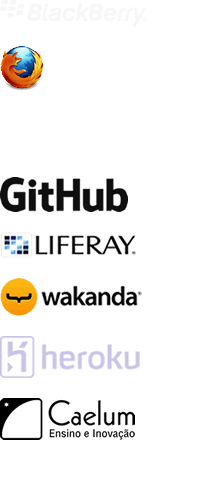
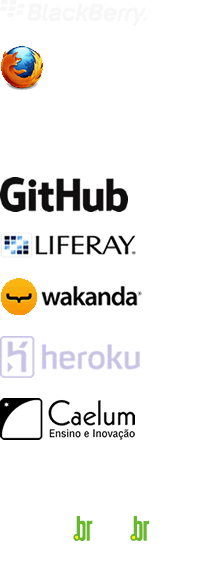
Adding W3C and supperplayer

Changed region(s): [[0.0, 0.3024, 0.7164, 0.9375], [0.0, 0.0605, 0.2388, 0.1815], [0.2687, 0.7863, 0.3582, 0.8165]]

diff --git a/css/main.css b/css/main.css
@@ -468,6 +468,9 @@ main .where { float:left; width:432px; font-size:28px; font-weight:bold; letter-
 #sponsors .sponsors-wrapper .sponsors .sponsor-list .liferay { background-color:#FFF; }
 #sponsors .sponsors-wrapper .sponsors .sponsor-list .liferay .sponsor a { margin-top:12px; width:202px; height:49px; background-position:0 -201px; }
 #sponsors .sponsors-wrapper .sponsors .sponsor-list .liferay .about { color:#000; }
+#sponsors .sponsors-wrapper .sponsors .sponsor-list .w3c { background-color:rgb(0,74,255); }
+#sponsors .sponsors-wrapper .sponsors .sponsor-list .w3c .sponsor a { margin:13px 0 0 -8px; width:209px; height:66px; background-position:0 -554px; }
+#sponsors .sponsors-wrapper .sponsors .sponsor-list .w3c .about { color:#FFF; }
 #sponsors .sponsors-wrapper .sponsors .sponsor-list .about { float:left; margin:0; width:670px; font-family:Arial, Helvetica, sans-serif; font-size:15px; line-height:120%; color:rgb(255,255,255); text-align:left; }
 #sponsors .sponsors-wrapper .squares .sponsor-list { padding:0; }
 #sponsors .sponsors-wrapper .squares li { display:inline-block; margin-left:14px; }
@@ -500,6 +503,7 @@ main .where { float:left; width:432px; font-size:28px; font-weight:bold; letter-
 #sponsors .sponsors-wrapper .supporters a.casa-do-codigo { margin-top:13px; width:130px; height:38px; background-position:0 -281px; }
 #sponsors .sponsors-wrapper .supporters a.get-up { margin-top:13px; width:102px; height:53px; background-position:0 -339px; }
 #sponsors .sponsors-wrapper .supporters a.treinaweb { margin-top:13px; width:118px; height:51px; background-position:0 -412px; }
+#sponsors .sponsors-wrapper .supporters a.superplayer { margin-top:21px; width:180px; height:57px; background-position:0 -483px; }
 
 /* FOLLOW US */
 #follow-us { position:relative; clear:both; padding-top:20px; width:100%; background-color:#171314; } 
@@ -780,6 +784,7 @@ main .where { float:left; width:432px; font-size:28px; font-weight:bold; letter-
     #sponsors .sponsors-wrapper .sponsors .sponsor-list .blackberry .sponsor a { margin:auto; height:26px; width:149px; }
     #sponsors .sponsors-wrapper .sponsors .sponsor-list .mozilla .sponsor a { margin:auto; height:44px; width:149px; background-position:0 -36px; }
     #sponsors .sponsors-wrapper .sponsors .sponsor-list .liferay .sponsor a { margin:auto; width:135px; height:19px; background-position:0 -132px; }
+    #sponsors .sponsors-wrapper .sponsors .sponsor-list .w3c .sponsor a { margin:auto; width:209px; height:66px; background-position:0 -330px; }
     #sponsors .sponsors-wrapper .squares .sponsor-list { padding:0; }
     #sponsors .sponsors-wrapper .squares li { margin-left:0; width:145px !important; }
     #sponsors .sponsors-wrapper .squares li:nth-last-child(even) { margin-right:5px; }
@@ -805,6 +810,7 @@ main .where { float:left; width:432px; font-size:28px; font-weight:bold; letter-
     #sponsors .sponsors-wrapper .supporters a.abradi { width:125px; height:29px; background-position:0 -144px; }
     #sponsors .sponsors-wrapper .supporters a.get-up { width:83px; height:43px; background-position:0 -222px; }
     #sponsors .sponsors-wrapper .supporters a.treinaweb { width:81px; height:36px; background-position:0 -275px; }
+    #sponsors .sponsors-wrapper .supporters a.superplayer { width:163px; height:29px; background-position:0 -321px; }
     #sponsors .sponsors-wrapper .squares .sponsor-list .sponsor.adobe .sponsors-general { margin-top:37px; width:115px; height:27px; background-position:0 -292px; }
     #sponsors .sponsors-wrapper .be-a-sponsor { padding-bottom:40px; font-size:15px; }
     
@@ -1094,6 +1100,7 @@ main .where { float:left; width:432px; font-size:28px; font-weight:bold; letter-
     #sponsors .sponsors-wrapper .sponsors .sponsor-list .blackberry .sponsor a { margin-top:60px; height:26px; width:147px; }
     #sponsors .sponsors-wrapper .sponsors .sponsor-list .mozilla .sponsor a { margin-top:31px; height:50px; width:149px; background-position:0 -40px; }
     #sponsors .sponsors-wrapper .sponsors .sponsor-list .liferay .sponsor a { margin-top:38px; width:135px; height:20px; background-position:0 -235px; }
+    #sponsors .sponsors-wrapper .sponsors .sponsor-list .w3c .sponsor a { margin:36px 0 0 -4px; width:149px; height:57px; background-position:0 -516px; }
     #sponsors .sponsors-wrapper .squares li { width:auto !important; }
     #sponsors .sponsors-wrapper .squares li a { width:167px; height:121px; }
     #sponsors .sponsors-wrapper .squares li .sponsor.join-us { width:168px; height:121px; background:url('../img/tablet/bg-join-us.png') no-repeat; }    

diff --git a/index.html b/index.html
@@ -1069,13 +1069,18 @@
                                     </strong>                                    
                                     <p class="about">Mozilla is a global, nonprofit organization dedicated to making the Web better. We emphasize principle over profit, and believe that the Web is a shared public resource to be cared for, not a commodity to be sold. We work with a worldwide community to create open source products like Mozilla Firefox, and to innovate for the benefit of the individual and the betterment of the Web. The result is great products built by passionate people and better choices for everyone.</p>
                                 </li>
-
                                 <li class="blackberry">
                                     <strong class="sponsor">
                                         <a href="http://br.blackberry.com/" rel="external" title="visite o site da BlackBerry" class="sponsors-general">BlackBerry</a>    
                                     </strong>                                    
                                     <p class="about">A global leader in wireless innovation, BlackBerry® revolutionized the mobile industry when it was introduced in 1999. Today, BlackBerry aims to inspire the success of our millions of customers around the world by continuously pushing the boundaries of mobile experiences. Founded in 1984 and based in Waterloo, Ontario, BlackBerry operates offices in North America, Europe, Asia Pacific and Latin America. BlackBerry is listed on the NASDAQ Stock Market (NASDAQ: BBRY) and the Toronto Stock Exchange (TSX: BB). For more information, visit www.blackberry.com</p>
-                                </li>
+                                </li>                                
+                                <li class="w3c">
+                                    <strong class="sponsor">
+                                        <a href="//http://www.w3c.br" rel="external" title="visite o site da W3C Brasil" class="sponsors-general">W3C Brasil</a>    
+                                    </strong>                                    
+                                    <p class="about">O Consórcio World Wide Web (W3C) é um consórcio internacional no qual organizações filiadas, uma equipe em tempo integral e o público trabalham juntos para desenvolver padrões para a Web. Liderado pelo inventor da web Tim Berners-Lee e o CEO Jeffrey Jaffe, o W3C tem como missão Conduzir a World Wide Web para que atinja todo seu potencial, desenvolvendo protocolos e diretrizes que garantam seu crescimento de longo prazo. Para mais informações, contate-nos.</p>
+                                </li>                                
                             </ul>
                         </div>
                         <div class="sponsors gold">
@@ -1139,6 +1144,7 @@
                                 <li><a href="//www.casadocodigo.com.br" rel="external" title="Casa do código - livros para o programador" class="casa-do-codigo ir">Casa do código</a></li>
                                 <li><a href="//getupcloud.com/" rel="external" title="Getup - Grow in the cloud" class="get-up ir">Getup</a></li>
                                 <li><a href="//www.treinaweb.com.br/" rel="external" title="Cursos de TI - TreinaWeb cursos online" class="treinaweb ir">TreinaWeb</a></li>
+                                <li><a href="//superplayer.fm/" rel="external" title="O Superplayer é a forma mais fácil e rápida de se encontrar a trilha sonora certa para cada momento do seu dia. Confira!" class="superplayer ir">Superplayer</a></li>
                             </ul>
                         </div>                                                
                     </div>          				    

diff --git a/en/index.html b/en/index.html
@@ -1070,6 +1070,12 @@
                                     </strong>
                                     <p class="about">A global leader in wireless innovation, BlackBerry® revolutionized the mobile industry when it was introduced in 1999. Today, BlackBerry aims to inspire the success of our millions of customers around the world by continuously pushing the boundaries of mobile experiences. Founded in 1984 and based in Waterloo, Ontario, BlackBerry operates offices in North America, Europe, Asia Pacific and Latin America. BlackBerry is listed on the NASDAQ Stock Market (NASDAQ: BBRY) and the Toronto Stock Exchange (TSX: BB). For more information, visit www.blackberry.com</p>
                                 </li>
+                                <li class="w3c">
+                                    <strong class="sponsor">
+                                        <a href="//http://www.w3c.br" rel="external" title="visite o site da W3C Brasil" class="sponsors-general">W3C Brasil</a>    
+                                    </strong>                                    
+                                    <p class="about">The World Wide Web Consortium (W3C) is an international community that develops open standards to ensure the long-term growth of the Web.</p>
+                                </li>                                 
                             </ul>
                         </div>
                         <div class="sponsors gold">
@@ -1133,6 +1139,7 @@
                                 <li><a href="//www.casadocodigo.com.br" rel="external" title="Casa do código - livros para o programador" class="casa-do-codigo ir">Casa do código</a></li>
                                 <li><a href="//getupcloud.com/" rel="external" title="Getup - Grow in the cloud" class="get-up ir">Getup</a></li>
                                 <li><a href="//www.treinaweb.com.br/" rel="external" title="Cursos de TI - TreinaWeb cursos online" class="treinaweb ir">TreinaWeb</a></li>
+                                <li><a href="//superplayer.fm/" rel="external" title="O Superplayer é a forma mais fácil e rápida de se encontrar a trilha sonora certa para cada momento do seu dia. Confira!" class="superplayer ir">Superplayer</a></li>
                             </ul>
                         </div>                                               
                     </div>          				    
